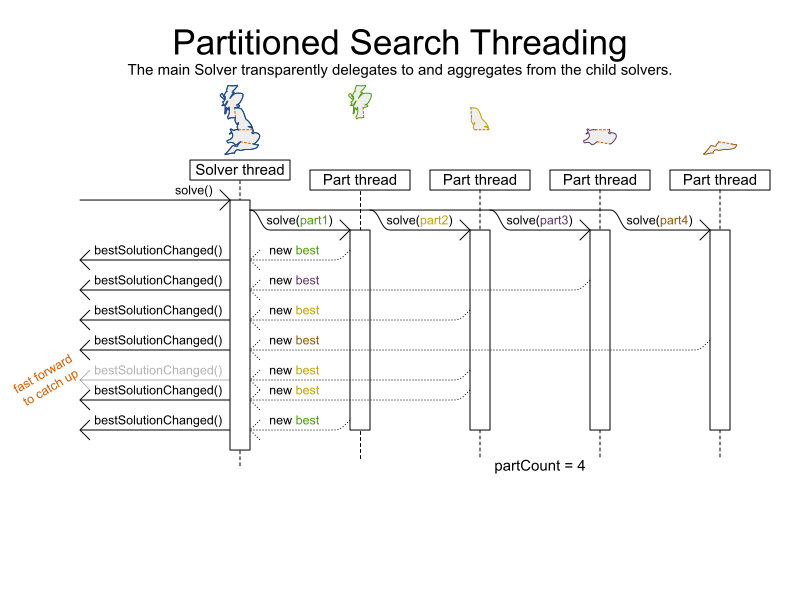
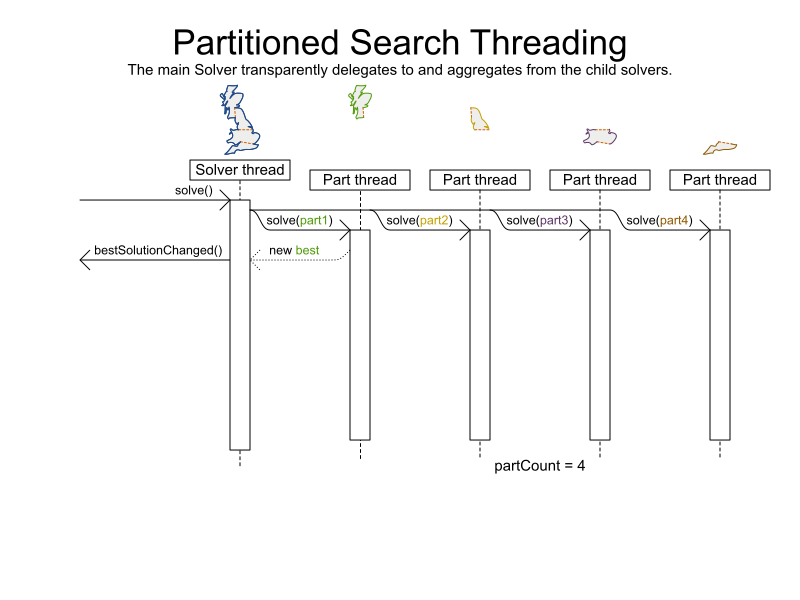
more layers in partitioned search

diff --git a/learn/slides/optaplanner-presentation/training.html b/learn/slides/optaplanner-presentation/training.html
@@ -2765,6 +2765,11 @@ $ mvn exec:java
             <img src="PartitionedSearch/partitionedSearchThreading_1.png" class="fullImage fragment">
             <img src="PartitionedSearch/partitionedSearchThreading_2.png" class="fullImage fragment">
             <img src="PartitionedSearch/partitionedSearchThreading_3.png" class="fullImage fragment">
+            <img src="PartitionedSearch/partitionedSearchThreading_4.png" class="fullImage fragment">
+            <img src="PartitionedSearch/partitionedSearchThreading_5.png" class="fullImage fragment">
+            <img src="PartitionedSearch/partitionedSearchThreading_6.png" class="fullImage fragment">
+            <img src="PartitionedSearch/partitionedSearchThreading_7.png" class="fullImage fragment">
+            <img src="PartitionedSearch/partitionedSearchThreading_8.png" class="fullImage fragment">
         </section>
 
         <section>
